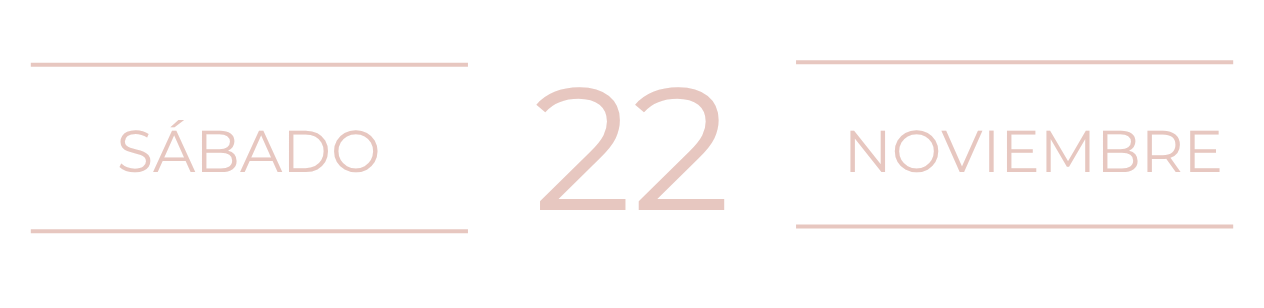
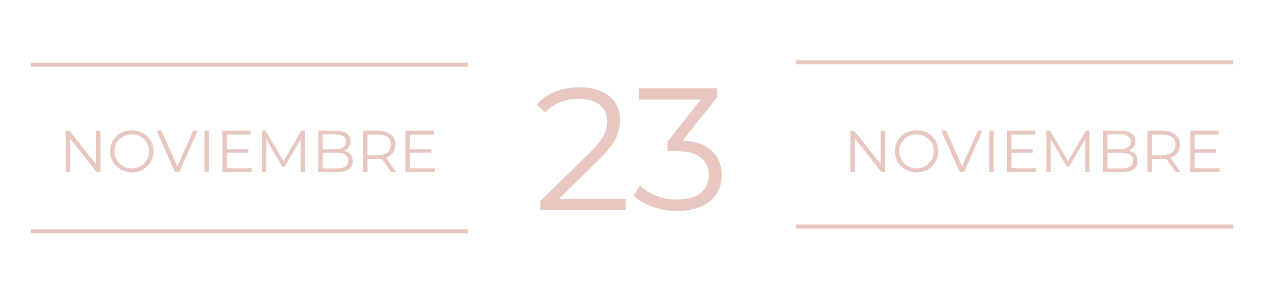
a
a

Changed region(s): [[0.0309, 0.4091, 0.3394, 0.5552], [0.4937, 0.263, 0.5862, 0.7013], [0.5554, 0.2922, 0.5862, 0.3214]]

diff --git a/index.html b/index.html
@@ -59,7 +59,7 @@
         <img  data-aos="fade-up"  class="fecha" src="./img-editables/fecha.png" alt="">
         <img data-aos="fade-up" src="./img-editables/relicario.png" alt="">
         <h3 data-aos="fade-up">Civil</h3>
-        <p data-aos="fade-up">13:00 Hs - Club de Campo Maipú.</p>
+        <p data-aos="fade-up">21:00 Hs - Club de Campo Maipú.</p>
         <a  data-aos="fade-up" class="boton" target="_blank" href="https://www.google.com/maps/dir//Tropero+Sosa+800,+M5515+Maip%C3%BA,+Mendoza/@-32.9915583,-68.7851498,1543m/data=!3m1!1e3!4m18!1m8!3m7!1s0x967e0cced9465ad7:0xd97034162b0ecb2c!2sTropero+Sosa+800,+M5515+Maip%C3%BA,+Mendoza!3b1!8m2!3d-32.9924174!4d-68.7803315!16s%2Fg%2F11bw448skp!4m8!1m0!1m5!1m1!1s0x967e0cced9465ad7:0xd97034162b0ecb2c!2m2!1d-68.7803315!2d-32.9924174!3e0?entry=ttu&g_ep=EgoyMDI2MTAwNy4wIKXMDSoASAFQAw%3D%3D">Cómo llegar</a>
       </div>
       <div  class="information-bloque">

diff --git a/script.js b/script.js
@@ -1,5 +1,5 @@
 // Establecer la fecha de destino
-const fechaDestino = new Date("2027-02-02T23:59:59");
+const fechaDestino = new Date("2026-11-23T23:59:59");
 
 // Variable para almacenar el ID del intervalo
 let intervalo;
